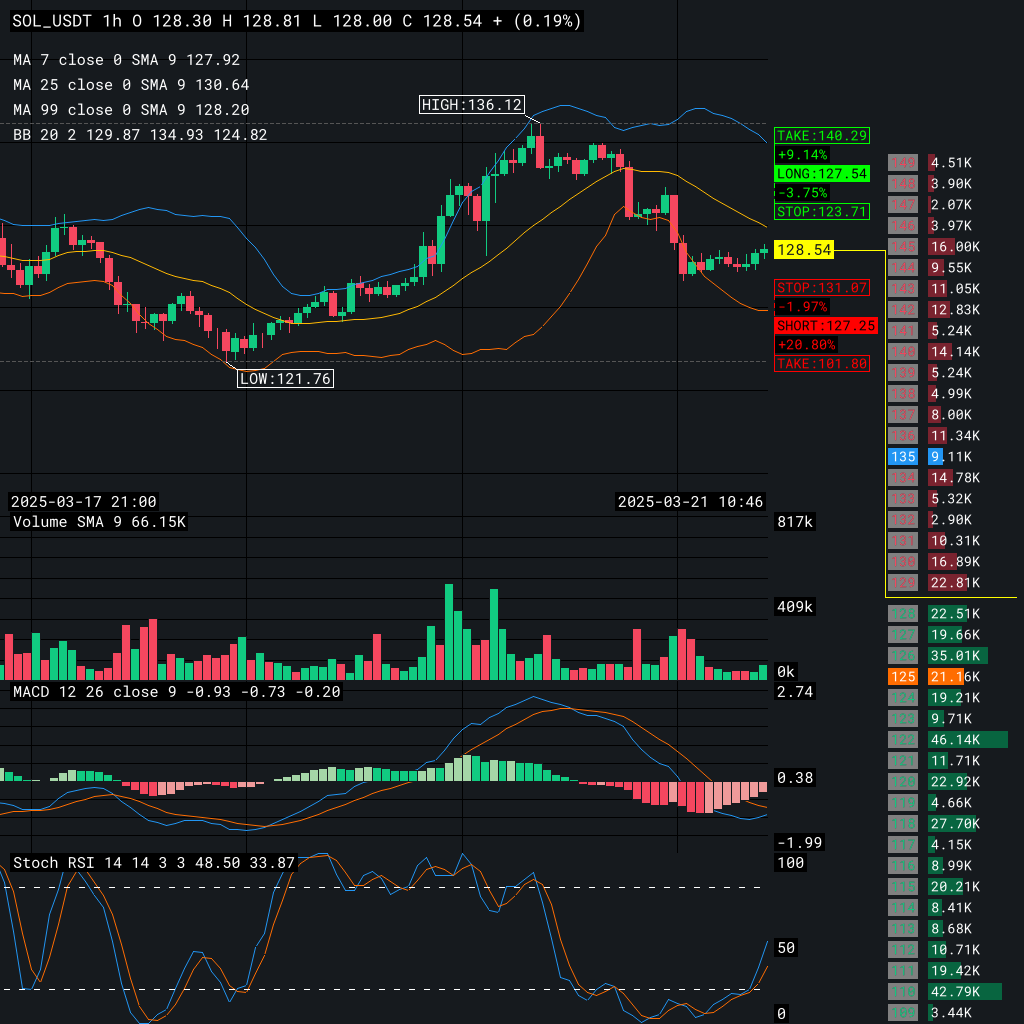
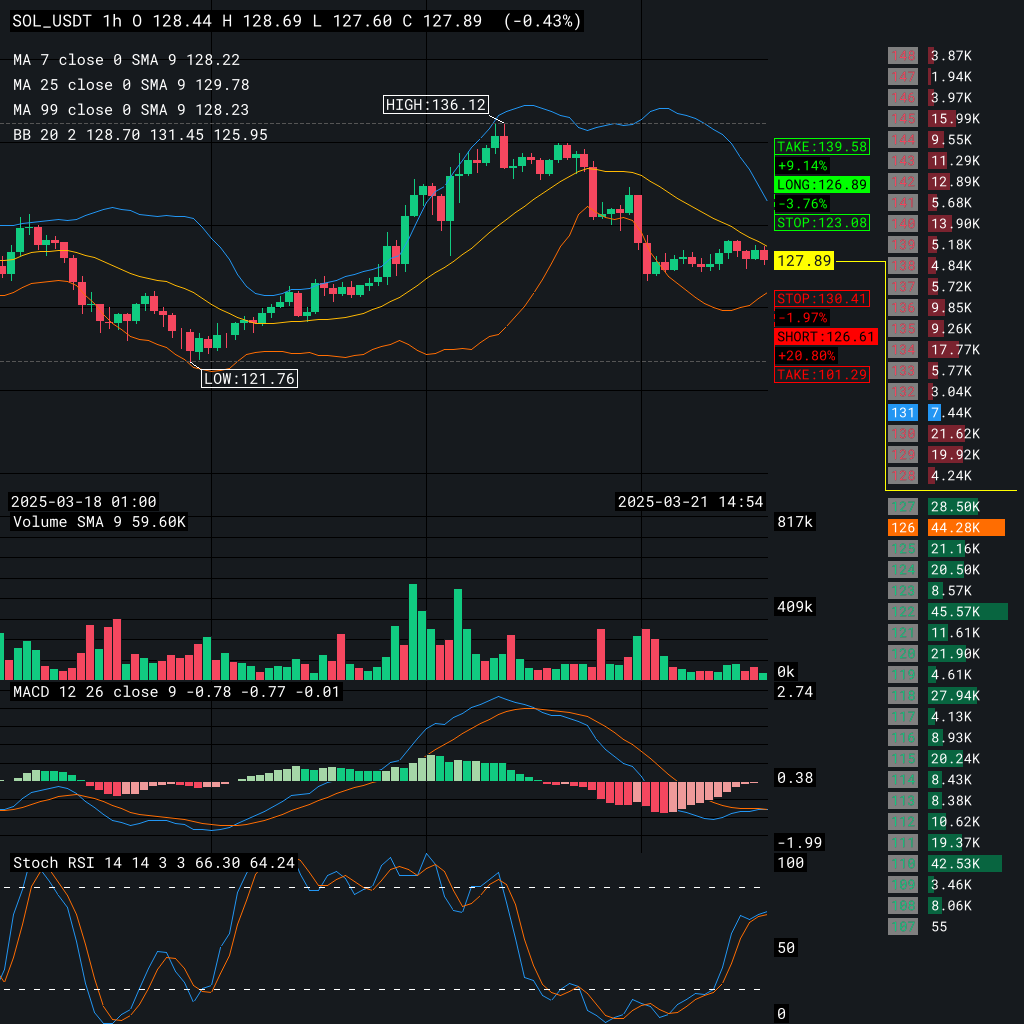
fix: use middle h

diff --git a/feeder/src/charts/painters.rs b/feeder/src/charts/painters.rs
@@ -69,8 +69,6 @@ const NUM_GREEN: Rgba<u8> = Rgba([B_GREEN.0, B_GREEN.1, B_GREEN.2, 255]);
 
 const PRICE_LINE_COLOR: Rgba<u8> = PRICE_BG_COLOR;
 
-const MARGIN_TOP: i32 = 1024 / 3;
-
 #[allow(clippy::too_many_arguments, unused)]
 pub fn draw_chart(
     root: &mut DrawingArea<BitMapBackend<'_>, plotters::coord::Shift>,
@@ -1167,15 +1165,15 @@ pub fn draw_orderbook(
     width: u32,
     height: u32,
     parent_offset_x: f32,
-    current_price_y: f32,
     lower_bound: f32,
     upper_bound: f32,
-    price_bounding_rect: Rect,
+    current_price_bounding_rect: Rect,
 ) -> Result<(HashMap<String, f32>), Box<dyn Error>> {
     // Output items y
     let mut bids_asks_y_map = HashMap::new();
 
     // Position
+    let current_price_y = current_price_bounding_rect.top() as f32;
     let padding_right = 120.0;
     let parent_offset_x = parent_offset_x + padding_right;
     let price_rect_height = 20;
@@ -1204,12 +1202,11 @@ pub fn draw_orderbook(
 
     // Prepare position for the histogram
     let mut current_y = (-{ price_rect_height_half } / 2i32);
-    let rect_height = 17u32;
+    let histogram_rect_height = 17u32;
     let gap = 4i32;
-    let bar_height = rect_height as i32 + gap;
-    let offset_y = MARGIN_TOP as f32
-        + (current_price_y as i32 - bar_height * (ask_data.len() as i32) + bar_height - gap / 2)
-            as f32;
+    let bar_height = histogram_rect_height as i32 + gap;
+    let offset_y =
+        height as f32 / 2.0 - (bar_height * (ask_data.len() as i32) + bar_height - gap / 2) as f32;
 
     let max_bar_width = 80;
     let current_x = 40u32;
@@ -1248,7 +1245,7 @@ pub fn draw_orderbook(
                     } else {
                         ASK_COLOR
                     };
-                    let y = offset_y as i32 + current_y + rect_height as i32;
+                    let y = offset_y as i32 + current_y + histogram_rect_height as i32;
                     root.draw(&Rectangle::new(
                         [
                             (offset_x as i32, offset_y as i32 + current_y),
@@ -1256,7 +1253,7 @@ pub fn draw_orderbook(
                         ],
                         ShapeStyle::from(color).filled(),
                     ))?;
-                    current_y += (rect_height + gap as u32) as i32;
+                    current_y += (histogram_rect_height + gap as u32) as i32;
                     bids_asks_y_map.insert(price.to_string(), y as f32);
                 }
             }
@@ -1270,7 +1267,7 @@ pub fn draw_orderbook(
                     } else {
                         BID_COLOR
                     };
-                    let y = offset_y as i32 + current_y + rect_height as i32;
+                    let y = offset_y as i32 + current_y + histogram_rect_height as i32;
                     root.draw(&Rectangle::new(
                         [
                             (offset_x as i32, offset_y as i32 + current_y),
@@ -1278,7 +1275,7 @@ pub fn draw_orderbook(
                         ],
                         ShapeStyle::from(color).filled(),
                     ))?;
-                    current_y += (rect_height + gap as u32) as i32;
+                    current_y += (histogram_rect_height + gap as u32) as i32;
                     bids_asks_y_map.insert(price.to_string(), y as f32);
                 }
             }
@@ -1295,9 +1292,8 @@ pub fn draw_orderbook(
 
     // Reset
     let mut current_y = (-{ price_rect_height_half } / 2i32);
-    let offset_y = MARGIN_TOP as f32
-        + (current_price_y as i32 - bar_height * (ask_data.len() as i32) + bar_height - gap / 2)
-            as f32;
+    let offset_y =
+        height as f32 / 2.0 - (bar_height * (ask_data.len() as i32) + bar_height - gap / 2) as f32;
 
     let offset_x = parent_offset_x;
 
@@ -1337,7 +1333,7 @@ pub fn draw_orderbook(
                 None,
             )?;
 
-            current_y += rect_height as i32 + gap;
+            current_y += histogram_rect_height as i32 + gap;
         }
     }
 
@@ -1379,7 +1375,7 @@ pub fn draw_orderbook(
                 None,
             )?;
 
-            current_y += (rect_height + gap as u32) as i32;
+            current_y += (histogram_rect_height + gap as u32) as i32;
         }
     }
 
@@ -1388,7 +1384,7 @@ pub fn draw_orderbook(
     draw_line_segment_mut(
         img,
         (
-            parent_offset_x - padding_right + price_bounding_rect.width() as f32,
+            parent_offset_x - padding_right + current_price_bounding_rect.width() as f32 + 8.0,
             price_line_y,
         ),
         (offset_x - 3.0, price_line_y),

diff --git a/feeder/src/charts/candle.rs b/feeder/src/charts/candle.rs
@@ -569,7 +569,6 @@ impl Chart {
                     root_width,
                     root_height,
                     right_offset_x as f32,
-                    price_bounding_rect.top() as f32,
                     lower_bound,
                     upper_bound,
                     price_bounding_rect,
